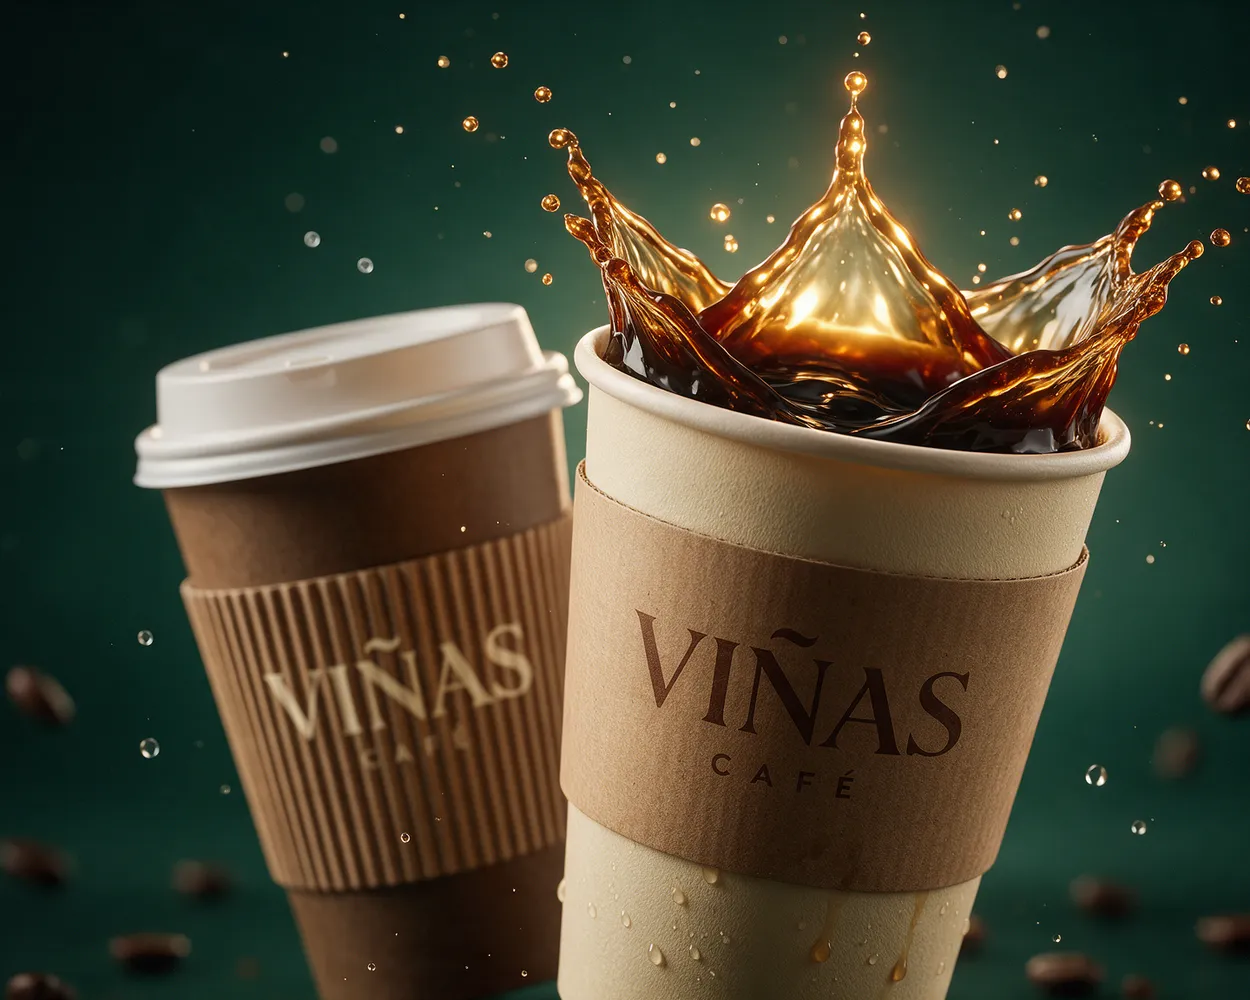
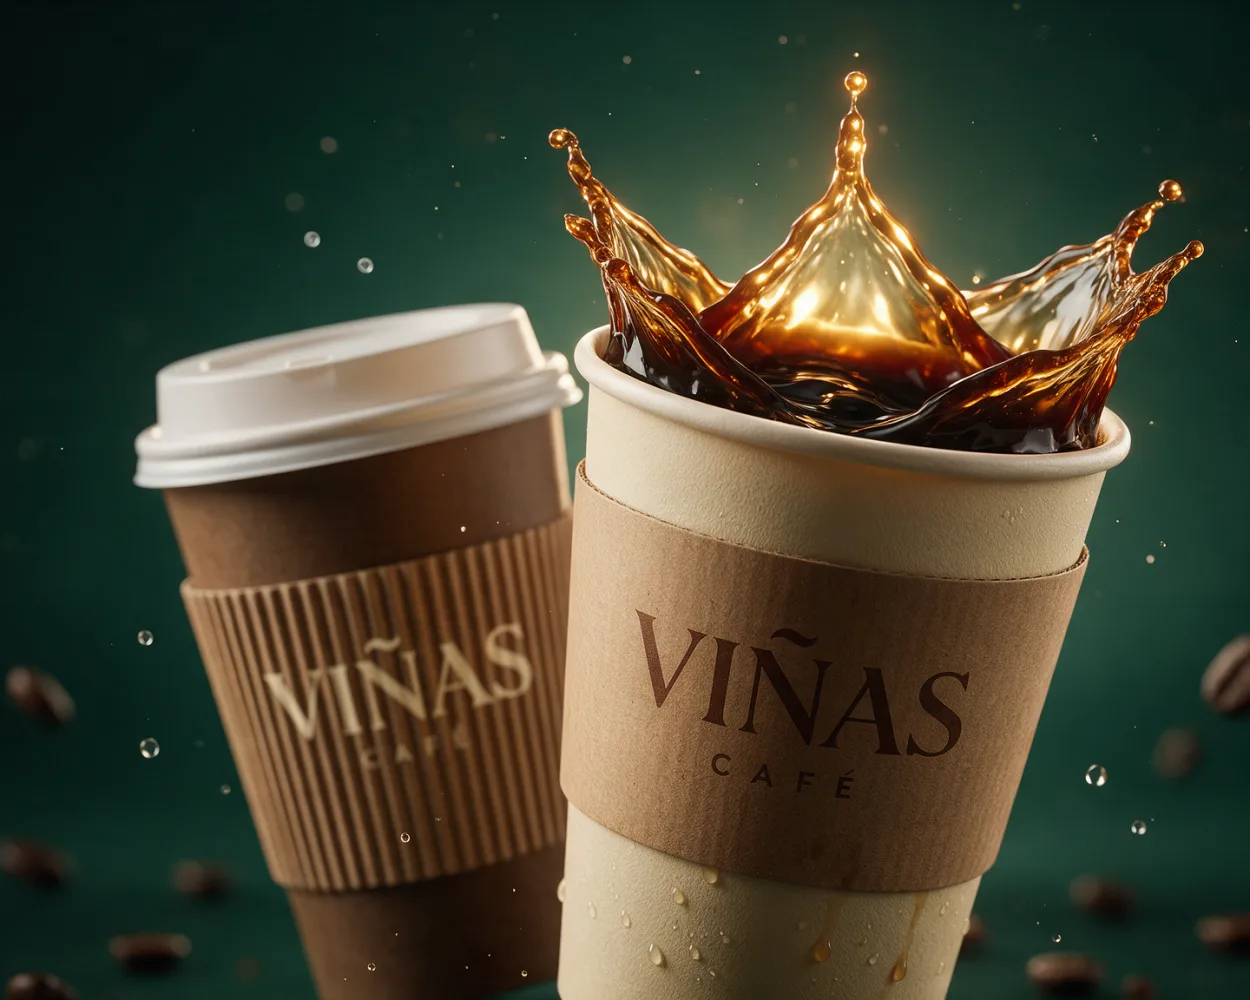
Hero: anima as gotas da própria foto (recortadas da imagem) no lugar de gotas geradas por código
- 39 gotas recortadas com transparência num sprite (gotas.webp); fundo reconstruído na foto base
- Cada gota nasce perto da coroa, passa pela posição original e segue até sumir, em ciclos desencontrados
- Máscara de borda suave aplicada ao conjunto foto + gotas, preservando a coroa do espirro

Claude-Session: https://claude.ai/code/session_0115MiUMeg3HC3FLrQLxdCmG

diff --git a/src/data/heroDrops.ts b/src/data/heroDrops.ts
@@ -1,0 +1,47 @@
+/**
+ * Gotas recortadas da própria imagem do hero (public/img/hero/gotas.webp).
+ * x/y/w/h em % da imagem; sx/pw/ph em px no sprite; dx/dy = vetor da coroa do espirro até a gota, em cqw.
+ * Gerado a partir da foto original: o fundo onde as gotas estavam foi reconstruído em copos-vinas.webp.
+ */
+export const dropSprite = { w: 1046, h: 59 };
+export const heroDrops = [
+  { x: 68.48, y: 0.9, w: 1.12, h: 1.5, sx: 0, pw: 14, ph: 15, dx: 1.24, dy: -19.8, dur: 3.98, delay: -0.84 },
+  { x: 31.6, y: 0.9, w: 1.2, h: 1.4, sx: 16, pw: 15, ph: 14, dx: -35.6, dy: -19.84, dur: 4.76, delay: -0.41 },
+  { x: 82.8, y: 2.5, w: 1.04, h: 1.5, sx: 33, pw: 13, ph: 15, dx: 15.52, dy: -18.52, dur: 4.49, delay: -2.05 },
+  { x: 83.2, y: 2.6, w: 1.04, h: 1.3, sx: 48, pw: 13, ph: 13, dx: 15.92, dy: -18.52, dur: 3.34, delay: -2.84 },
+  { x: 67.76, y: 2.2, w: 2.64, h: 3.3, sx: 63, pw: 33, ph: 33, dx: 1.28, dy: -18.04, dur: 3.29, delay: -2.43 },
+  { x: 22.24, y: 4.8, w: 1.12, h: 1.4, sx: 98, pw: 14, ph: 14, dx: -45.0, dy: -16.72, dur: 3.37, delay: -0.51 },
+  { x: 38.4, y: 4.2, w: 3.04, h: 3.7, sx: 114, pw: 38, ph: 37, dx: -27.88, dy: -16.28, dur: 4.22, delay: -4.63 },
+  { x: 34.4, y: 4.8, w: 2.16, h: 2.7, sx: 154, pw: 27, ph: 27, dx: -32.32, dy: -16.2, dur: 3.5, delay: -1.25 },
+  { x: 78.96, y: 5.7, w: 2.32, h: 3.0, sx: 183, pw: 29, ph: 30, dx: 12.32, dy: -15.36, dur: 4.71, delay: -5.31 },
+  { x: 41.76, y: 7.5, w: 3.28, h: 3.9, sx: 214, pw: 41, ph: 39, dx: -24.4, dy: -13.56, dur: 4.59, delay: -2.22 },
+  { x: 93.84, y: 9.2, w: 1.52, h: 1.7, sx: 257, pw: 19, ph: 17, dx: 26.8, dy: -13.08, dur: 5.54, delay: -0.26 },
+  { x: 53.2, y: 9.7, w: 1.2, h: 1.5, sx: 278, pw: 15, ph: 15, dx: -14.0, dy: -12.76, dur: 5.26, delay: -1.62 },
+  { x: 36.24, y: 10.7, w: 2.72, h: 3.4, sx: 295, pw: 34, ph: 34, dx: -30.2, dy: -11.2, dur: 3.55, delay: -0.66 },
+  { x: 97.68, y: 11.2, w: 1.68, h: 2.2, sx: 331, pw: 21, ph: 22, dx: 30.72, dy: -11.28, dur: 3.94, delay: -4.57 },
+  { x: 31.28, y: 12.4, w: 1.2, h: 1.4, sx: 354, pw: 15, ph: 14, dx: -35.92, dy: -10.64, dur: 3.63, delay: -3.26 },
+  { x: 54.72, y: 13.1, w: 1.84, h: 2.2, sx: 371, pw: 23, ph: 22, dx: -12.16, dy: -9.76, dur: 4.73, delay: -2.09 },
+  { x: 79.12, y: 13.4, w: 1.12, h: 1.4, sx: 396, pw: 14, ph: 14, dx: 11.88, dy: -9.84, dur: 4.51, delay: -0.35 },
+  { x: 51.84, y: 14.5, w: 2.08, h: 2.6, sx: 412, pw: 26, ph: 26, dx: -14.92, dy: -8.48, dur: 3.34, delay: -1.15 },
+  { x: 95.36, y: 15.5, w: 3.04, h: 3.5, sx: 440, pw: 38, ph: 35, dx: 29.08, dy: -7.32, dur: 4.83, delay: -2.39 },
+  { x: 82.0, y: 16.7, w: 2.4, h: 2.9, sx: 480, pw: 30, ph: 29, dx: 15.4, dy: -6.6, dur: 3.95, delay: -3.28 },
+  { x: 98.08, y: 16.7, w: 1.92, h: 3.7, sx: 512, pw: 24, ph: 37, dx: 31.24, dy: -6.28, dur: 4.29, delay: -1.68 },
+  { x: 94.8, y: 18.1, w: 1.2, h: 1.6, sx: 538, pw: 15, ph: 16, dx: 27.6, dy: -6.0, dur: 5.11, delay: -3.91 },
+  { x: 42.24, y: 18.2, w: 3.52, h: 4.3, sx: 555, pw: 44, ph: 43, dx: -23.8, dy: -4.84, dur: 3.79, delay: -3.22 },
+  { x: 55.28, y: 18.5, w: 4.56, h: 5.9, sx: 601, pw: 57, ph: 59, dx: -10.24, dy: -3.96, dur: 4.46, delay: -4.9 },
+  { x: 80.0, y: 20.0, w: 2.4, h: 3.0, sx: 660, pw: 30, ph: 30, dx: 13.4, dy: -3.92, dur: 4.95, delay: -1.61 },
+  { x: 60.88, y: 20.9, w: 1.52, h: 1.9, sx: 692, pw: 19, ph: 19, dx: -6.16, dy: -3.64, dur: 5.55, delay: -0.66 },
+  { x: 95.84, y: 21.6, w: 3.52, h: 4.3, sx: 713, pw: 44, ph: 43, dx: 29.8, dy: -2.12, dur: 4.2, delay: -4.24 },
+  { x: 78.08, y: 22.6, w: 1.12, h: 1.4, sx: 759, pw: 14, ph: 14, dx: 10.84, dy: -2.48, dur: 3.56, delay: -2.74 },
+  { x: 38.32, y: 22.6, w: 1.28, h: 1.5, sx: 775, pw: 16, ph: 15, dx: -28.84, dy: -2.44, dur: 3.29, delay: -3.74 },
+  { x: 56.96, y: 22.3, w: 2.96, h: 4.1, sx: 793, pw: 37, ph: 41, dx: -9.36, dy: -1.64, dur: 5.03, delay: -3.21 },
+  { x: 80.24, y: 23.0, w: 1.76, h: 2.1, sx: 832, pw: 22, ph: 21, dx: 13.32, dy: -1.88, dur: 5.3, delay: -1.76 },
+  { x: 41.36, y: 25.1, w: 2.32, h: 3.0, sx: 856, pw: 29, ph: 30, dx: -25.28, dy: 0.16, dur: 4.87, delay: -3.33 },
+  { x: 77.6, y: 25.6, w: 1.92, h: 2.6, sx: 887, pw: 24, ph: 26, dx: 10.76, dy: 0.4, dur: 4.59, delay: -2.55 },
+  { x: 42.64, y: 26.4, w: 2.24, h: 3.0, sx: 913, pw: 28, ph: 30, dx: -24.04, dy: 1.2, dur: 5.22, delay: -5.29 },
+  { x: 96.24, y: 28.9, w: 2.16, h: 2.3, sx: 943, pw: 27, ph: 23, dx: 29.52, dy: 2.92, dur: 4.34, delay: -3.72 },
+  { x: 93.6, y: 33.6, w: 2.16, h: 2.6, sx: 972, pw: 27, ph: 26, dx: 26.88, dy: 6.8, dur: 3.35, delay: -3.93 },
+  { x: 92.8, y: 37.0, w: 1.2, h: 1.5, sx: 1001, pw: 15, ph: 15, dx: 25.6, dy: 9.08, dur: 4.75, delay: -5.56 },
+  { x: 99.2, y: 41.4, w: 0.8, h: 2.3, sx: 1018, pw: 10, ph: 23, dx: 31.8, dy: 12.92, dur: 5.17, delay: -1.59 },
+  { x: 92.24, y: 41.9, w: 1.12, h: 1.3, sx: 1030, pw: 14, ph: 13, dx: 25.0, dy: 12.92, dur: 4.13, delay: -3.74 },
+];

diff --git a/src/index.css b/src/index.css
@@ -139,21 +139,24 @@ body::after {
 
 .hero-stage { position: relative; z-index: 3; min-height: 360px; display: grid; place-items: center; perspective: 1200px; }
 .hero-cup { position: relative; width: min(92vw, 620px); transform-style: preserve-3d; }
-.hero-cup-float { position: relative; animation: bob 8s ease-in-out infinite; }
+.hero-cup-float { position: relative; animation: bob 8s ease-in-out infinite;
+  -webkit-mask-image: linear-gradient(to bottom, transparent 0, #000 11%, #000 74%, transparent 98%), linear-gradient(to right, transparent 0, #000 16%, #000 84%, transparent 100%); mask-image: linear-gradient(to bottom, transparent 0, #000 11%, #000 74%, transparent 98%), linear-gradient(to right, transparent 0, #000 16%, #000 84%, transparent 100%);
+  -webkit-mask-composite: source-in; mask-composite: intersect; }
 @keyframes bob { 50% { transform: translateY(-12px); } }
-/* gotas de café saindo do espirro */
-.coffee-drops { position: absolute; inset: 0; pointer-events: none; }
-.cdrop { position: absolute; border-radius: 50% 50% 50% 50% / 58% 58% 42% 42%; background: radial-gradient(circle at 35% 30%, #ffe0a8 0 12%, #d0812f 30%, #6b330e 75%, #2e1404); box-shadow: 0 0 8px rgba(240,170,90,.35); opacity: 0; animation: cdrop var(--dur) cubic-bezier(.3,.6,.5,1) var(--delay) infinite; will-change: transform, opacity; }
-@keyframes cdrop {
-  0%   { transform: translate(0, 0) scale(.4); opacity: 0; }
-  8%   { opacity: 1; }
-  25%  { transform: translate(calc(var(--dx) * .25), calc(var(--h) * -.75)) scale(1); }
-  45%  { transform: translate(calc(var(--dx) * .45), calc(var(--h) * -1)) scale(1); }
-  70%  { transform: translate(calc(var(--dx) * .7), calc(var(--h) * -.45)) scale(.95); opacity: 1; }
-  100% { transform: translate(var(--dx), var(--fall)) scale(.7); opacity: 0; }
+/* gotas reais da foto saindo do espirro */
+.hero-drops { position: absolute; inset: 0; pointer-events: none; container-type: inline-size; }
+.hdrop { position: absolute; background-repeat: no-repeat; opacity: 0; will-change: transform, opacity;
+  animation: hdrop var(--dur) cubic-bezier(.25,.6,.35,1) var(--delay) infinite; }
+@keyframes hdrop {
+  0%   { transform: translate(calc(var(--dx) * -.6cqw), calc(var(--dy) * -.6cqw)) scale(.45); opacity: 0; }
+  14%  { opacity: 1; }
+  62%  { transform: translate(0, 0) scale(1); opacity: 1; }
+  100% { transform: translate(calc(var(--dx) * .22cqw), calc(var(--dy) * .22cqw + 2.4cqw)) scale(.85); opacity: 0; }
 }
+@media (prefers-reduced-motion: reduce) { .hdrop { animation: none !important; opacity: 1; } }
+
 .hero-cup-svg { width: 100%; height: auto; }
-.hero-cup-img { width: 100%; height: auto; -webkit-mask-image: radial-gradient(ellipse 50% 50% at 50% 48%, #000 58%, transparent 100%); mask-image: radial-gradient(ellipse 50% 50% at 50% 48%, #000 58%, transparent 100%); }
+.hero-cup-img { width: 100%; height: auto; display: block; }
 .hero-bean { position: absolute; pointer-events: none; }
 .bean-bob { animation: beanfloat var(--dur, 7s) ease-in-out infinite; transform: rotate(var(--r)); }
 @keyframes beanfloat { 50% { transform: rotate(calc(var(--r) + 25deg)) translateY(-18px); } }

diff --git a/src/sections/Hero.tsx b/src/sections/Hero.tsx
@@ -2,7 +2,7 @@ import { useRef } from 'react';
 import { Link } from 'react-router-dom';
 import { motion, useMotionValue, useReducedMotion, useScroll, useSpring, useTransform } from 'framer-motion';
 import { ArrowRight, Plus } from '../components/Icons';
-import CoffeeDrops from '../components/CoffeeDrops';
+import HeroDrops from '../components/HeroDrops';
 import { productBySlug, brl } from '../lib/menu';
 import { images } from '../data/images';
 
@@ -71,7 +71,7 @@ export default function Hero() {
           initial={{ opacity: 0, scale: 0.92, y: 40 }} animate={{ opacity: 1, scale: 1, y: 0 }} transition={{ duration: 1.6, ease }}>
           <div className="hero-cup-float">
             <img className="hero-cup-img" src={images['ia-hero'].src} alt={images['ia-hero'].alt} width="1250" height="1000" fetchPriority="high" decoding="async" />
-            {!reduce && <CoffeeDrops />}
+            <HeroDrops src={images['ia-hero-drops'].src} />
           </div>
         </motion.div>
       </motion.div>

diff --git a/src/components/HeroDrops.tsx b/src/components/HeroDrops.tsx
@@ -1,0 +1,22 @@
+import { dropSprite, heroDrops } from '../data/heroDrops';
+
+/**
+ * Anima as gotas reais da foto do hero: cada uma nasce perto da coroa do espirro,
+ * voa até a posição original, segue um pouco adiante e some — em ciclos desencontrados.
+ */
+export default function HeroDrops({ src }: { src: string }) {
+  return (
+    <div className="hero-drops" aria-hidden="true">
+      {heroDrops.map((d, i) => (
+        <span key={i} className="hdrop" style={{
+          left: `${d.x}%`, top: `${d.y}%`, width: `${d.w}%`, height: `${d.h}%`,
+          backgroundImage: `url(${src})`,
+          backgroundSize: `${(dropSprite.w / d.pw) * 100}% ${(dropSprite.h / d.ph) * 100}%`,
+          backgroundPosition: `${(d.sx / (dropSprite.w - d.pw)) * 100}% 0%`,
+          ['--dx' as string]: d.dx, ['--dy' as string]: d.dy,
+          ['--dur' as string]: `${d.dur}s`, ['--delay' as string]: `${d.delay}s`,
+        }} />
+      ))}
+    </div>
+  );
+}

diff --git a/src/data/images.ts b/src/data/images.ts
@@ -19,6 +19,7 @@ export const images: Record<string, ImageAsset> = {
   'of-croissant-nutella': of('croissant-nutella-morango.webp', 'Croissant Nutella com morango do Viñas Café'),
   'of-combo-coxinha': of('combo-coxinha-brigadeiro.webp', 'Combo coxinha de frango com requeijão e brigadeiro gourmet'),
 
+  'ia-hero-drops': { src: `${import.meta.env.BASE_URL}img/hero/gotas.webp`, alt: '', kind: 'ilustrativa', credit: 'Gotas recortadas da imagem do hero' },
   'of-guarana-lata': of('guarana-antarctica-lata.webp', 'Lata de Guaraná Antarctica'),
   'm-croissant-peito-de-peru-c-cream-cheese': ia('croissant-peito-de-peru-c-cream-cheese.webp'),
   'm-croissant-frango-c-requeijao': ia('croissant-frango-c-requeijao.webp'),

diff --git a/PROJECT_CONTEXT.md b/PROJECT_CONTEXT.md
@@ -31,7 +31,7 @@ public/img/oficial | public/img/ilustrativas
 - Paleta derivada da **logomarca oficial** (monograma "VC" em forma de xícara, dourado sobre verde): verde `#072F27`, verde profundo `#021712`, musgo `#56663A`, creme `#F4ECDC`, café `#3A2316`, dourado `#D6A86B`.
 - Tipografia: Fraunces (serifada editorial, itálico para acentos) + Manrope (texto/UI).
 - Assinatura: “Mais que um café, uma experiência.”
-- Hero: imagem fotorrealista dos copos Viñas (gerada por IA no ElevenLabs) com gotas de café animadas saindo do espirro (`CoffeeDrops`), flutuação suave, parallax por mouse/rolagem e entrada do título em máscara. O giro 360° foi removido a pedido do cliente.
+- Hero: imagem fotorrealista dos copos Viñas (gerada por IA no ElevenLabs) com as gotas da própria foto animadas (`HeroDrops`): 39 gotas recortadas da imagem em `public/img/hero/gotas.webp` (sprite), fundo reconstruído em `copos-vinas.webp`, posições/vetores em `src/data/heroDrops.ts`, flutuação suave, parallax por mouse/rolagem e entrada do título em máscara. O giro 360° foi removido a pedido do cliente.
 
 ## Apresentação individual dos produtos
 Cada produto tem URL própria (`/cardapio/<slug>`) e um “palco” cinematográfico. A composição combina:
